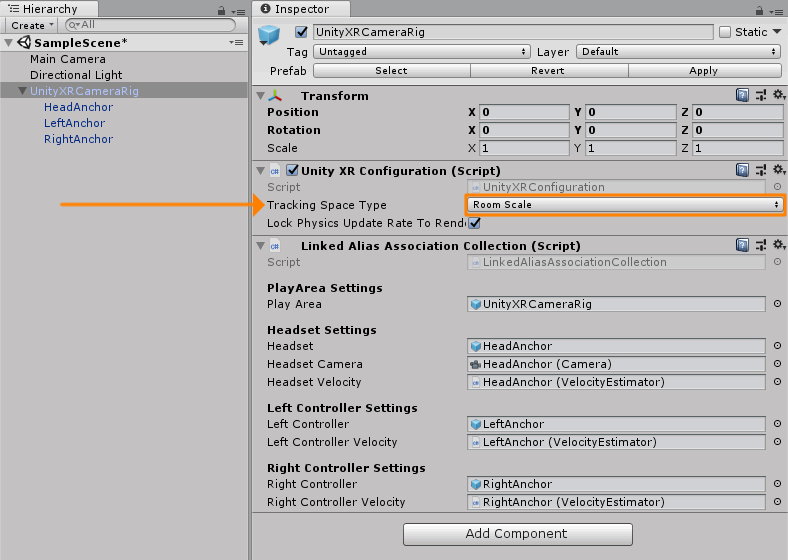
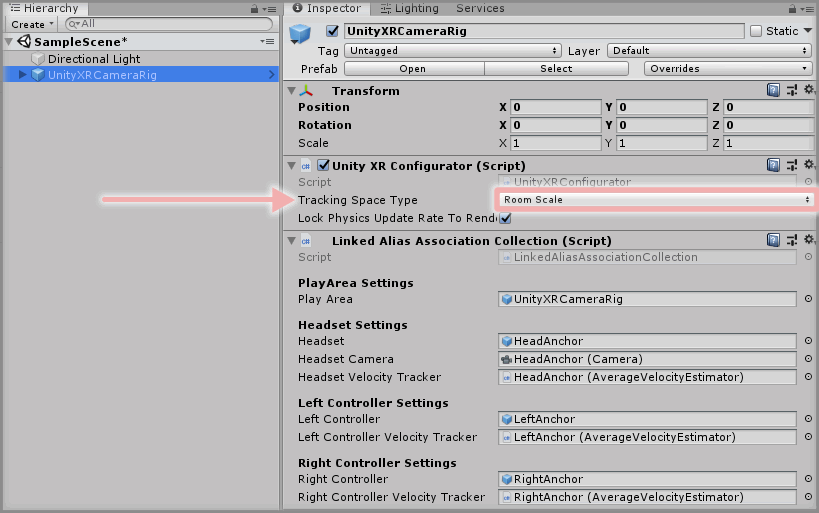
fix(HowToGuides): update adding the UnityXRCameraRig to 2018.3 version
As VRTK now has a minimum requirement of Unity 2018.3 then the guides
need to be tested in at least this version and updated accordingly.

The image assets have been redone as the UI of Unity 2018.3 has been
redesigned so it looks different.

Any reference to Unity 3d has been changed to Unity and where Unity
is used as an adjective not a noun.

Changed region(s): [[0.0, 0.0, 1.0, 1.0]]

diff --git a/Documentation/HowToGuides/Basics/AddingTheUnityXRCameraRig/README.md b/Documentation/HowToGuides/Basics/AddingTheUnityXRCameraRig/README.md
@@ -4,11 +4,11 @@
 
 ## Introduction
 
-  > * Level: Beginner
-  >
-  > * Reading Time: 2 minutes
-  >
-  > * Checked with: Unity 2018.1
+> * Level: Beginner
+>
+> * Reading Time: 2 minutes
+>
+> * Checked with: Unity 2018.3.6f1
 
 The UnityXR CameraRig helper prefab provides a camera that tracks the HMD rotation and position along with any available XR controllers.
 
@@ -23,15 +23,15 @@ The outcome of this How-To Guide is to learn how to add the UnityXR CameraRig pr
 
 ## Prerequisites
 
-* Add [VRTK.Unity.Core] to your Unity3d project.
+* Follow the [VRTK Getting Started] steps to add VRTK to your Unity project.
 
 ## Let's Start
 
 ### Step 1
 
-Expand the VRTK.Unity.Core directory in the Unity3d Project window until the `VRTK.Unity.Core -> Prefabs -> CameraRig` directory is visible.
+Expand the VRTK directory in the Unity Project window until the `VRTK -> Prefabs -> CameraRig -> UnityXRCameraRig` directory is visible and select the `UnityXRCameraRig` directory so the contents are displayed.
 
-![Unity3d Project Window](assets/images/Unity3dProjectWindow.png)
+![Unity Project Window](assets/images/UnityProjectWindow.png)
 
 ### Step 2
 
@@ -39,9 +39,11 @@ Select the `UnityXRCameraRig` prefab then drag and drop it into the Hierarchy wi
 
 ![Drag UnityXRCameraRig To Hierarchy](assets/images/DragUnityXRCameraRigToHierarchy.png)
 
+Then delete the `Main Camera` GameObject from the Unity Hierarchy window as the `UnityXRCameraRig` contains a Main Camera for the Scene.
+
 ### Step 3
 
-Select the `UnityXRCameraRig` GameObject in the Unity3d Hierarchy window and change the `Unity XR Configuration` component to suit your Tracking Space requirements.
+Select the `UnityXRCameraRig` GameObject in the Unity Hierarchy window and change the `Unity XR Configuration` component to suit your Tracking Space requirements.
 
 * Ensure the `Tracking Space Type` is set to:
   * `Room Scale` for XR devices that support 6 degrees of freedom tracking (the ability to move around your play area).
@@ -51,7 +53,7 @@ Select the `UnityXRCameraRig` GameObject in the Unity3d Hierarchy window and cha
 
 ### Done
 
-Now you have a UnityXR CameraRig in your scene. If you play your scene you will see that the game Main Camera is tracking the XR HMD and if there is a connected left and/or right XR controller then they will be tracking the Left/Right Anchors of the UnityXR CameraRig.
+Now you have a UnityXR CameraRig in your scene. If you play the Unity scene you will see that the game Main Camera is tracking the XR HMD and if there is a connected left and/or right XR controller then they will be tracking the Left/Right Anchors of the UnityXR CameraRig.
 
 ![UnityXRCameraRig In Scene](assets/images/UnityXRCameraRigInScene.png)
 
@@ -59,4 +61,4 @@ Now you have a UnityXR CameraRig in your scene. If you play your scene you will 
 
 * Follow up tutorials coming soon...
 
-[VRTK.Unity.Core]: https://github.com/ExtendRealityLtd/VRTK.Unity.Core#getting-started
+[VRTK Getting Started]: https://github.com/thestonefox/VRTK#getting-started
